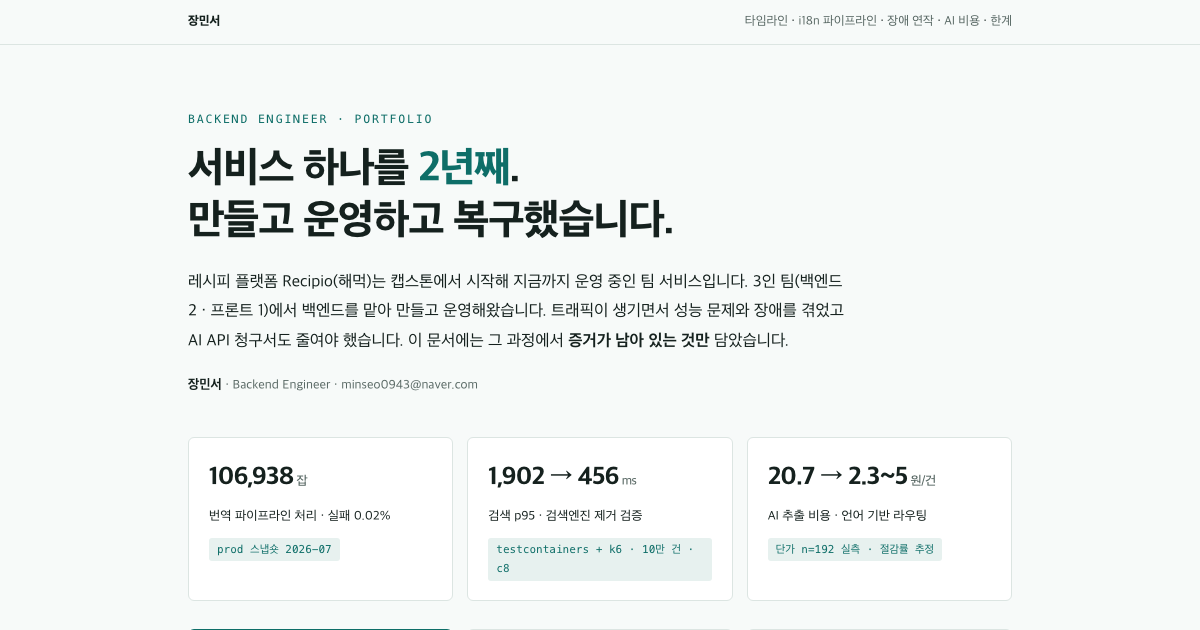
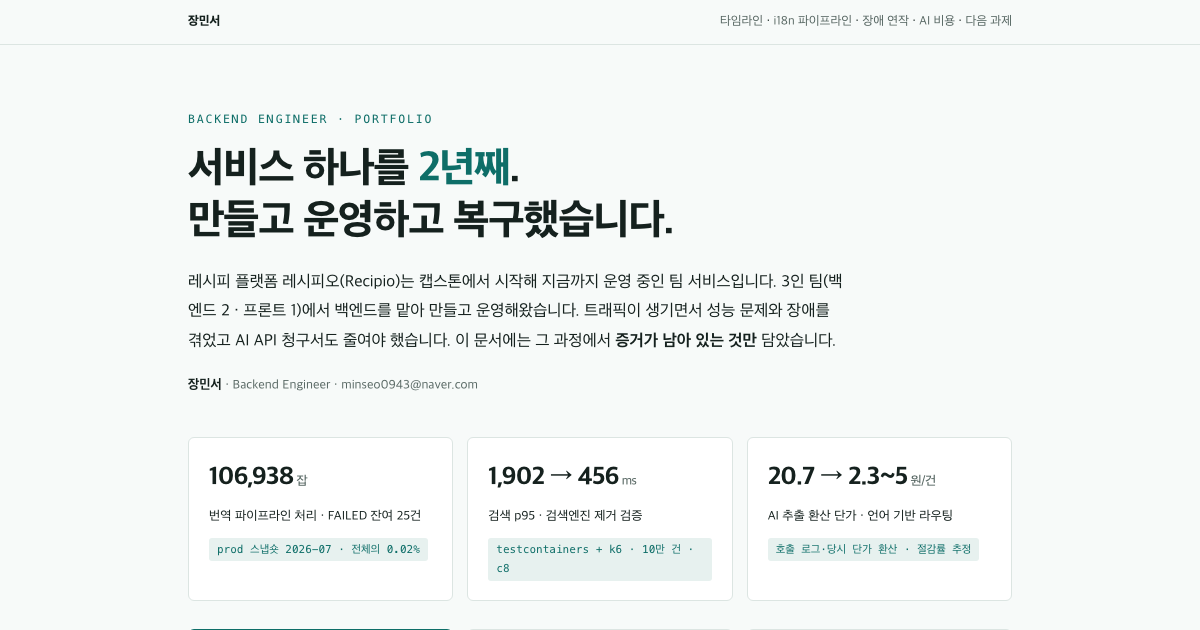
docs(portfolio): 운영 수치와 역할 설명을 최신 근거에 맞게 수정
GA4 기간, AI 비용의 추정 범위, 번역 FAILED 잔여, 용량 측정 조건을 명확히 한다. 공유 카드 이미지도 동일한 내용으로 갱신한다.

diff --git a/index.html b/index.html
@@ -4,7 +4,7 @@
 <meta charset="utf-8">
 <meta name="viewport" content="width=device-width, initial-scale=1">
 <title>장민서 — Backend Engineer</title>
-<meta name="description" content="월 활성 사용자 9만 레시피 플랫폼 Recipio의 백엔드 2년 차 운영 기록 — 검색 p95 1,902→456ms, AI 추출 비용 20.7→2.3~5원/건, 번역 잡 106,938건, 장애 2건 진단·복구.">
+<meta name="description" content="2026년 7월 GA4 30일 스냅숏 기준 활성 사용자 약 9만 명인 레시피 플랫폼 Recipio의 백엔드 운영 기록 — 검색 p95 1,902→456ms, AI 추출 환산 단가 20.7→2.3~5원/건, 번역 잡 106,938건, 장애 2건 진단·복구.">
 <meta property="og:type" content="website">
 <meta property="og:title" content="장민서 — Backend Engineer">
 <meta property="og:description" content="서비스 하나를 2년째. 만들고 운영하고 복구했습니다 — 증거가 남아 있는 것만 담은 포트폴리오.">
@@ -182,7 +182,7 @@
 <header>
   <div class="eyebrow">Backend Engineer · Portfolio</div>
   <h1>서비스 하나를 <b>2년째</b>.<br>만들고 운영하고 복구했습니다.</h1>
-  <p class="lede">레시피 플랫폼 Recipio(해먹)는 캡스톤에서 시작해 지금까지 운영 중인 팀 서비스입니다.
+  <p class="lede">레시피 플랫폼 레시피오(Recipio)는 캡스톤에서 시작해 지금까지 운영 중인 팀 서비스입니다.
   3인 팀(백엔드 2 · 프론트 1)에서 백엔드를 맡아 만들고 운영해왔습니다.
   트래픽이 생기면서 성능 문제와 장애를 겪었고 AI API 청구서도 줄여야 했습니다.
   이 문서에는 그 과정에서 <strong>증거가 남아 있는 것만</strong> 담았습니다.</p>
@@ -191,8 +191,8 @@
   <div class="stats">
     <div class="stat">
       <div class="v">106,938<small> 잡</small></div>
-      <div class="k">번역 파이프라인 처리 · 실패 0.02%</div>
-      <div class="m">prod 스냅숏 2026-07</div>
+      <div class="k">번역 파이프라인 처리 · FAILED 잔여 25건</div>
+      <div class="m">prod 스냅숏 2026-07 · 전체의 0.02%</div>
     </div>
     <div class="stat">
       <div class="v">1,902 → 456<small> ms</small></div>
@@ -201,8 +201,8 @@
     </div>
     <div class="stat">
       <div class="v">20.7 → 2.3~5<small> 원/건</small></div>
-      <div class="k">AI 추출 비용 · 언어 기반 라우팅</div>
-      <div class="m">단가 n=192 실측 · 절감률 추정</div>
+      <div class="k">AI 추출 환산 단가 · 언어 기반 라우팅</div>
+      <div class="m">호출 로그·당시 단가 환산 · 절감률 추정</div>
     </div>
   </div>
 
@@ -216,21 +216,21 @@
 <section id="timeline">
   <div class="sec-eyebrow">Service &amp; Timeline</div>
   <h2>서비스 개요와 타임라인</h2>
-  <p class="prose" style="margin-top:14px">Recipio(해먹)는 유튜브 요리 영상을 구조화된 레시피로 추출하고
+  <p class="prose" style="margin-top:14px">레시피오(Recipio)는 유튜브 요리 영상을 구조화된 레시피로 추출하고
   텍스트로도 생성하는 AI 레시피 서비스입니다. 한국어·일본어·영어 3개 언어로 서빙하며
   검색·추천·요리 기록·챗봇과 쿠팡 파트너스 연동을 제공합니다.
-  월 활성 사용자는 약 9만 명입니다.</p>
+  2026년 6월 8일~7월 8일 GA4 기준 활성 사용자는 약 9만 명입니다.</p>
   <a class="service-cta" href="https://www.recipio.kr" target="_blank" rel="noopener">
     <img src="recipio-logo.png" alt="Recipio 로고" width="22" height="22">
     <span><b>www.recipio.kr</b> — 라이브 서비스 ↗</span>
   </a>
   <figure style="margin:16px 0 0;max-width:560px">
-    <img src="traffic-ga4.png" alt="GA4 최근 30일 — 활성 사용자 9만 명, 새 사용자 8.8만 명" width="1030" height="140"
+    <img src="traffic-ga4.png" alt="GA4 2026년 6월 8일~7월 8일 — 활성 사용자 9만 명, 새 사용자 8.8만 명" width="1030" height="140"
          style="width:100%;height:auto;border:1px solid var(--line);border-radius:8px;background:#fff" loading="lazy" decoding="async">
-    <figcaption style="font-size:12px;color:var(--sub);margin-top:6px">GA4 · 2026-06-08 ~ 07-08 (최근 30일)</figcaption>
+    <figcaption style="font-size:12px;color:var(--sub);margin-top:6px">GA4 · 2026.06.08~07.08 30일 스냅숏</figcaption>
   </figure>
   <div class="chips">
-    <span>Spring Boot 3 · Java 17</span><span>MySQL 8 (RDS)</span><span>Flyway 90+</span><span>Tests 2,500+ · 로컬 게이트</span>
+    <span>Spring Boot 3 · Java 17</span><span>MySQL 8 (RDS)</span><span>Flyway 기반 스키마 관리</span><span>Tests 2,500+ · 로컬 게이트</span>
   </div>
   <figure style="margin:26px 0 8px">
   <a href="architecture-v3.png" target="_blank" rel="noopener">
@@ -275,7 +275,8 @@
     2026년, 프리티어 종료로 비용 부담이 커지자 팀은 제거를 결정했습니다. 제 역할은 <strong>"MySQL만으로 버틸 수 있는가"의 검증</strong>이었습니다.
     10만 건·동시 8 조건에서 LIKE p95가 1,902ms, 튜닝한 MySQL 경로가 456ms로 기준 500ms를 통과해
     제거 가능으로 판정했습니다. ko 메인 검색의 ngram FULLTEXT 전환 구현은 팀원의 작업이고 저는 그 위에
-    다국어 검색 코퍼스와 장애 대응 경로를 만들었습니다. 검색엔진 재도입 판단 기준(형태소 분석·동의어 요구 발생 시)도
+    다국어 검색 코퍼스와 장애 대응 경로를 만들었습니다. 검증 이후 팀원이 OpenSearch 런타임 통합을 제거해
+    현재 검색은 MySQL·QueryDSL 단일 경로로 동작합니다. 검색엔진 재도입 판단 기준(형태소 분석·동의어 요구 발생 시)도
     문서로 남겼습니다. <a href="https://github.com/minseo0943/portfolio/blob/main/adr/0006-mysql-querydsl-search-optimization.md">ADR-0006 ↗</a></p>
   </div>
 </section>
@@ -288,7 +289,7 @@
   <div class="prose">
     <p>2년 차, 서비스를 일본어·영어권으로 확장하기로 했습니다. 레시피 본문·재료명·단위·댓글까지,
     대상은 레시피 번역 잡만 누적 10만 7천 건입니다. 요청 시점 번역으로는 감당할 수 없는 규모였습니다.
-    이 파이프라인은 설계와 구현을 제가 주도했습니다(i18n 경로 커밋 32:6, 2026-07 main 기준).</p>
+    이 파이프라인의 설계와 구현을 제가 주도했습니다.</p>
     <p>번역 그 자체는 API 호출 한 번입니다. 어려운 건 실패 쪽이라 이 작업을 비동기 잡·상태 기계·복구
     수단의 문제로 정의했습니다. 운영해 보면 AI 번역은 부분적으로, 지난번과 같은 방식으로 또 실패합니다.</p>
 
@@ -391,9 +392,9 @@ UPDATE recipe_translation_jobs
   <div class="prose">
     <h3>3막 · 임계를 미리 재다 <span class="tag">용량 산정</span></h3>
     <p>장애 수습에서 멈추지 않고 다음 임계를 미리 쟀습니다. 유튜브 추출 경로가 메모리를 얼마나 견디는지
-    보려고 운영과 동일한 1.5GiB 컨테이너를 재현해 부하를 걸었고 <strong>동시 20건에서 OOM kill(exit 137)</strong>이라는
-    임계를 얻었습니다. 결론은 "스레드풀을 늘리지 말 것". 이후 팀이 컨테이너 메모리를 3GiB로 늘려서 이 수치는
-    재측정이 필요해졌습니다. 측정 하니스는 재현 가능하게 남아 있어 다시 돌리면 됩니다.
+    보려고 운영과 같은 1.5GiB 메모리·1GiB JVM 힙 제한을 로컬 Docker에 재현해 부하를 걸었습니다. 강제 동시 20건과 분산 투입 시 동시 진행
+    약 15건에서 OOM kill(exit 137)을 확인해 <strong>안전 목표를 약 12건</strong>으로 판단했습니다. 이후 팀이 컨테이너
+    메모리를 3GiB로 늘려서 이 수치는 재측정이 필요해졌습니다. 측정 하니스는 비공개 서비스 레포에 남겨두었습니다.
     <a href="https://github.com/minseo0943/portfolio/blob/main/performance/youtube-extraction-capacity.md">측정 문서 ↗</a></p>
   </div>
 </section>
@@ -402,7 +403,7 @@ UPDATE recipe_translation_jobs
   <div class="sec-eyebrow">Deep Dive 03 · AI Cost Engineering</div>
   <h2>1년, 5개 프로바이더</h2>
   <div class="lesson" style="margin-top:18px">결론 — 추출 1건당 AI 비용 20.7 → 2.3~5원. 한국어는 자막 복원력이 검증된
-  Gemini로, 그 외 언어는 DeepSeek으로 보내는 언어 라우팅이 만든 숫자입니다(단가 실측 n=192 · 절감률 추정).</div>
+  Gemini로, 그 외 언어는 DeepSeek으로 보내는 언어 라우팅이 만든 숫자입니다(Gemini·DeepSeek n=192 비교 · Grok 운영 기준점 · 절감률 추정).</div>
   <div class="strip">
     <span class="p">OpenAI <span class="tag">2025-06</span></span><span class="arr">→</span>
     <span class="p">Claude <span class="tag">실험·복귀</span></span><span class="arr">→</span>
@@ -424,14 +425,11 @@ UPDATE recipe_translation_jobs
     그 외 언어는 DeepSeek(2.3원)입니다. 배포는 기본값을 기존 Grok으로 둔 hidden deploy로 하고 설정 전환으로
     활성화했습니다. 설계 기준 비용은 기존 대비 약 1/5 수준입니다.
     다만 일 100건 가정의 추정이라 청구서 검증을 진행할 예정입니다.
-    <a href="https://github.com/minseo0943/portfolio/blob/main/ai/youtube-step1-model-report.html">비교 리포트 ↗</a></p>
+    <a href="https://github.com/minseo0943/portfolio/blob/main/ai/README.md">비교 리포트 요약·근거 ↗</a></p>
     <h3>측정이 계속되게 만들기</h3>
-    <p>일회성 비교로 끝나지 않도록 챗봇 경로는 호출당 토큰(입력/캐시/출력)·지연·프롬프트 버전·추정 비용을
-    DB에 영속화했습니다. 실제로 사후 SQL 한 벌이면 이런 답이 나옵니다(2026-07 운영 스냅숏): 누적 494콜,
-    호출당 평균 ₩0.46, v6→v7.2에서 p50 1,994→1,630ms · p95 6,414→4,534ms · Pro 모델 호출률 93.1→87.3%.
-    통제 실험은 아니지만 운영 분포에서도 최종 버전에 지연 회귀가 없다는 걸 이 데이터로 확인했습니다.
-    프롬프트는 버전 있는 리소스 파일로 관리하고 버전 라벨을 파일명에서 유도해 기록과 실체가
-    어긋나지 않게 했습니다.</p>
+    <p>일회성 비교로 끝나지 않도록 챗봇 경로는 호출당 토큰·지연·프롬프트 버전·추정 비용을 DB에 영속화했습니다.
+    2026-07 운영 스냅숏에서 누적 494콜과 호출당 평균 ₩0.46을 확인했고, 프롬프트 버전별 지연도 비교할 수 있게 했습니다.
+    통제 실험은 아니므로 운영 수치는 회귀 여부를 살피는 보조 지표로만 사용했습니다.</p>
     <h3>폐기 문서도 결과다</h3>
     <p>챗봇 프롬프트 개선은 4연속 통제 실험(단일 변수씩)으로 진행했습니다. 1차 실험은 "효과 없음"으로 판정하고
     폐기 문서로 남겼습니다. 판정 자체가 실험의 목적이었기 때문입니다. 3차의 안전 강화 프롬프트는
@@ -445,16 +443,16 @@ UPDATE recipe_translation_jobs
   <div class="sec-eyebrow">Next</div>
   <h2>다음 과제</h2>
   <ul class="limits">
-    <li><strong>검색 스택 마무리.</strong> 트래픽을 차단해 둔 OpenSearch 잔여 코드의 단계적 제거.</li>
+    <li><strong>용량 재측정.</strong> 3GiB 환경에서 유튜브 추출의 안전 동시성 다시 산정.</li>
     <li><strong>번역 큐 관측 강화.</strong> 대기 잡 수 gauge를 추가해 큐 깊이를 상시 관측.</li>
-    <li><strong>AI 비용 계측 확대.</strong> 챗봇에 적용한 호출 단위 비용 영속화를 추출·생성 경로까지.</li>
+    <li><strong>AI 비용 검증 마무리.</strong> 생성·추출·분석 경로의 토큰·호출·지연 지표를 실제 청구서와 대조하고 호출별 비용 저장까지 확대.</li>
   </ul>
 </section>
 
 <section id="profile">
   <div class="sec-eyebrow">Education &amp; Awards</div>
   <h2 style="font-size:16px;margin-bottom:4px">학력과 수상</h2>
-  <p style="font-size:13.5px;color:var(--sub)">세종대학교 소프트웨어학과 (2019.03–2025.08) · SMART Tournament 장려상(사물인터넷 혁신융합대학, 2025.06) · 세종대 해커톤 4위(2025.06)</p>
+  <p style="font-size:13.5px;color:var(--sub)">세종대학교 소프트웨어학과 (2019.03–2025.08) · SMART Tournament 장려상(사물인터넷 혁신융합대학, 2025.06) · 세종대 해커톤 4위(2025.06.11)</p>
 </section>
 
 <footer>
